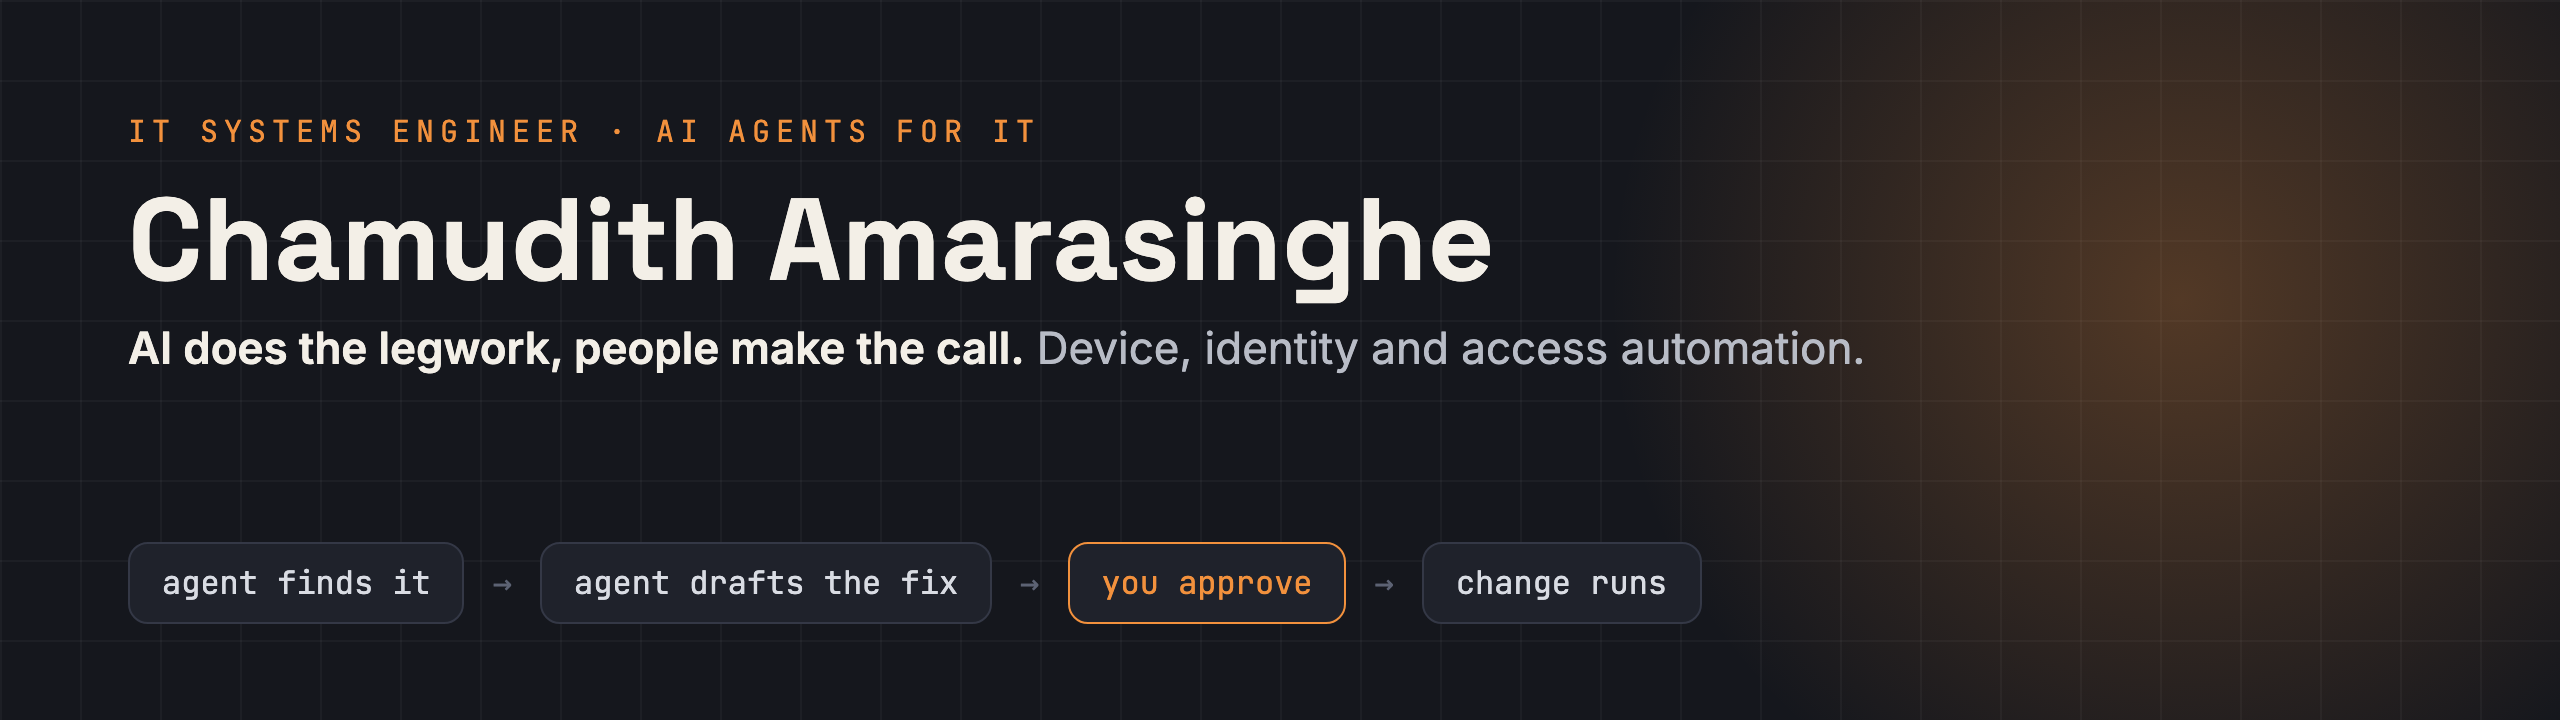
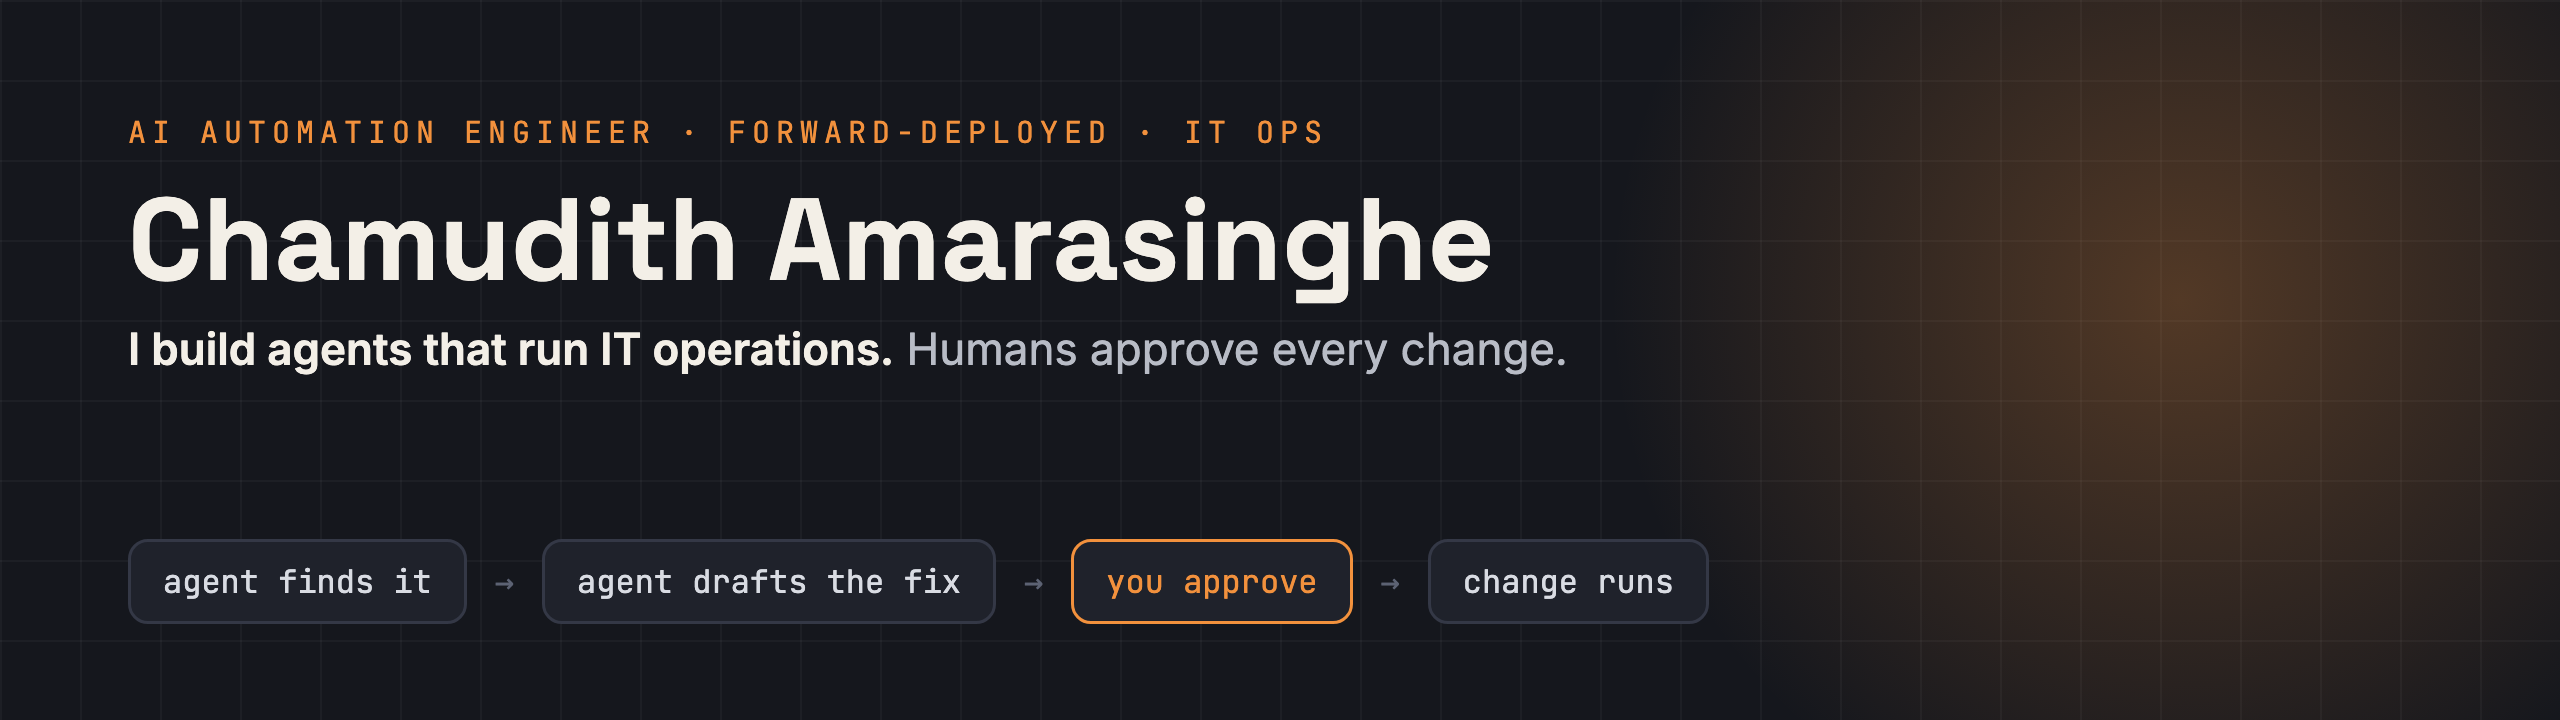
Profile: position as AI automation / forward-deployed engineer; fix claude-godfather link

diff --git a/assets/banner.html b/assets/banner.html
@@ -19,9 +19,9 @@
 <body>
   <div class="grid"></div><div class="glow"></div>
   <div class="wrap">
-    <div class="eyebrow">IT Systems Engineer · AI agents for IT</div>
+    <div class="eyebrow">AI Automation Engineer · Forward-deployed · IT Ops</div>
     <h1>Chamudith Amarasinghe</h1>
-    <div class="tag"><b>AI does the legwork, people make the call.</b> Device, identity and access automation.</div>
+    <div class="tag"><b>I build agents that run IT operations.</b> Humans approve every change.</div>
   </div>
   <div class="flow">
     <span class="step">agent finds it</span><span class="arrow">→</span>

diff --git a/README.md b/README.md
@@ -1,13 +1,13 @@
-<img src="assets/banner.png" alt="Chamudith Amarasinghe, IT Systems Engineer. AI does the legwork, people make the call: agent finds it, agent drafts the fix, you approve, change runs." width="100%">
+<img src="assets/banner.png" alt="Chamudith Amarasinghe, AI Automation Engineer, forward-deployed, IT Ops. I build agents that run IT operations. Humans approve every change." width="100%">
 
 <p>
-<img src="https://img.shields.io/badge/Open_to-AI_automation_·_IT_systems_·_IAM_·_Forward--deployed-F2913D?style=flat-square" alt="Open to AI automation, IT systems, IAM and forward-deployed roles">
+<img src="https://img.shields.io/badge/Open_to-AI_engineering_·_Forward--deployed_·_IT_systems_engineering_·_Automation_·_IAM-F2913D?style=flat-square" alt="Open to AI engineering, forward-deployed, IT systems engineering, automation and IAM roles">
 <img src="https://img.shields.io/badge/NYC_/_NJ_·_remote_·_relocation-available_now-2EA043?style=flat-square" alt="NYC / NJ, remote or relocation, available now">
 </p>
 
-I'm an IT systems engineer who builds **AI agents for device, identity and access work**. They find the problem, draft the fix and wait for a person to approve it. Nothing changes without a human, and everything is dry-run first.
+I'm an **AI automation engineer** with deep IT operations roots. I design and ship **agentic systems that run real infrastructure**: Claude-based agents wired into device, identity and access platforms through MCP, running on schedules, proposing changes with their reasoning, and executing only after a human approves. Every change is dry-run first and logged.
 
-**9 years in IT**, from desk-side support to systems engineering, running Mac, Windows and iOS fleets of **1,000+ devices** in regulated industries.
+I work like a **forward-deployed engineer**: sit with the people who own the problem, map how the systems actually behave, then build the automation, the guardrails and the rollout. **9 years** across enterprise IT and systems engineering, owning Mac, Windows and iOS fleets of **1,000+ devices**, identity and SSO in regulated industries. That operational depth is why my agents are safe to put in production.
 
 ## ⚡ Highlights
 
@@ -40,20 +40,20 @@ flowchart LR
 </tr>
 <tr>
 <td width="33%" valign="top"><a href="https://github.com/chamu262/nova-os-demo"><img src="assets/nova-os.jpg" alt="Nova OS crew and chat"></a><br><b><a href="https://github.com/chamu262/nova-os-demo">nova-os-demo</a></b><br>A personal AI team: a lead agent routes each request to the right specialist.</td>
-<td width="33%" valign="top"><a href="https://github.com/chamu262/godfather"><img src="assets/godfather.jpg" alt="Godfather dashboard"></a><br><b><a href="https://github.com/chamu262/godfather">godfather</a></b><br>A supervisor setup for Claude Code: sessions, skills, memory and a live dashboard.</td>
+<td width="33%" valign="top"><a href="https://github.com/chamu262/claude-godfather"><img src="assets/godfather.jpg" alt="Godfather dashboard"></a><br><b><a href="https://github.com/chamu262/claude-godfather">claude-godfather</a></b><br>A supervisor for multi-agent Claude Code work: orchestration, skills, memory and a live ops dashboard.</td>
 <td width="33%" valign="top"><a href="https://github.com/chamu262/presentations"><img src="assets/talk.jpg" alt="From Prompts to Agent Teams cover slide"></a><br><b><a href="https://github.com/chamu262/presentations">presentations</a></b><br>Slides and speaker notes, each practice linked to a runnable demo.</td>
 </tr>
 </table>
 
 ## 🔭 What I do
 
-*   **Agentic IT operations:** scheduled jobs that propose changes, with approval gates and dry runs.
-*   **AI connected to IT systems** through read-only MCP tools for devices, users, groups and access.
+*   **Agentic operations:** production agents on schedules that detect, propose and (after approval) execute changes, with dry runs, audit logs and rollback.
+*   **MCP integrations:** tool servers that give LLM agents safe, scoped access to devices, users, groups and access data.
+*   **Multi-agent orchestration with Claude Code:** a supervisor session, project leads, skills, memory and approval gates.
 *   **AI-assisted access reviews:** rules flag leavers, unused admin rights and idle paid seats; the agent explains each flag.
 *   **Zero-touch deployment** with Jamf, Intune and Automox, plus staged rollouts gated by conditional access and compliance.
 *   **Migrations end to end:** MDM platforms, and VPN from Tailscale to NetBird.
-*   **Automations and SSO:** jobs on Google Cloud Run, SSO and SAML app integrations.
-*   **Claude Code as a team:** a supervisor session, project masters, skills, memory and approval gates.
+*   **Automation platform:** Python and Node jobs on Google Cloud Run with CI, secrets handling and SSO/SAML integrations.
 
 ## 💻 Tech stack
 
@@ -95,4 +95,4 @@ flowchart LR
 
 ## 📫 Let's talk
 
-I'm looking for my next role in AI automation, IT systems, identity/IAM or forward-deployed engineering. The fastest way to reach me is [LinkedIn](https://www.linkedin.com/in/chamudith-amarasinghe-ab1223216).
+I'm looking for my next role as an **AI / automation engineer**, **forward-deployed engineer** or **IT systems engineer**, especially where agents meet real infrastructure, identity and operations. The fastest way to reach me is [LinkedIn](https://www.linkedin.com/in/chamudith-amarasinghe-ab1223216).
